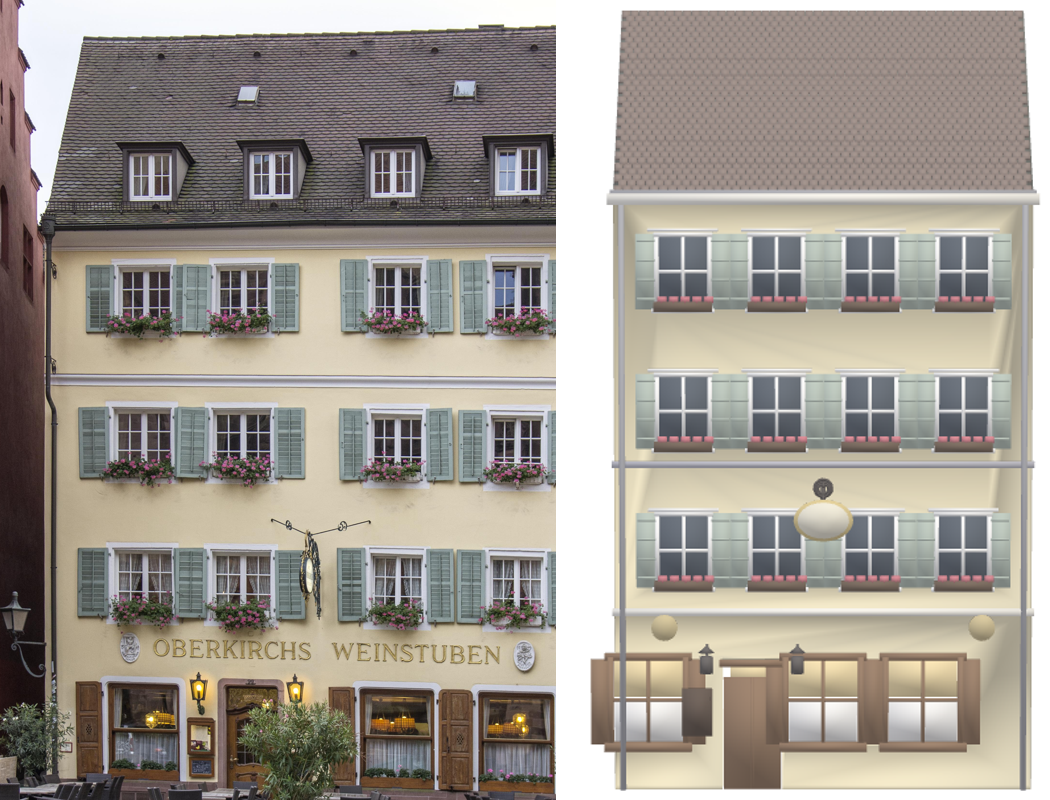
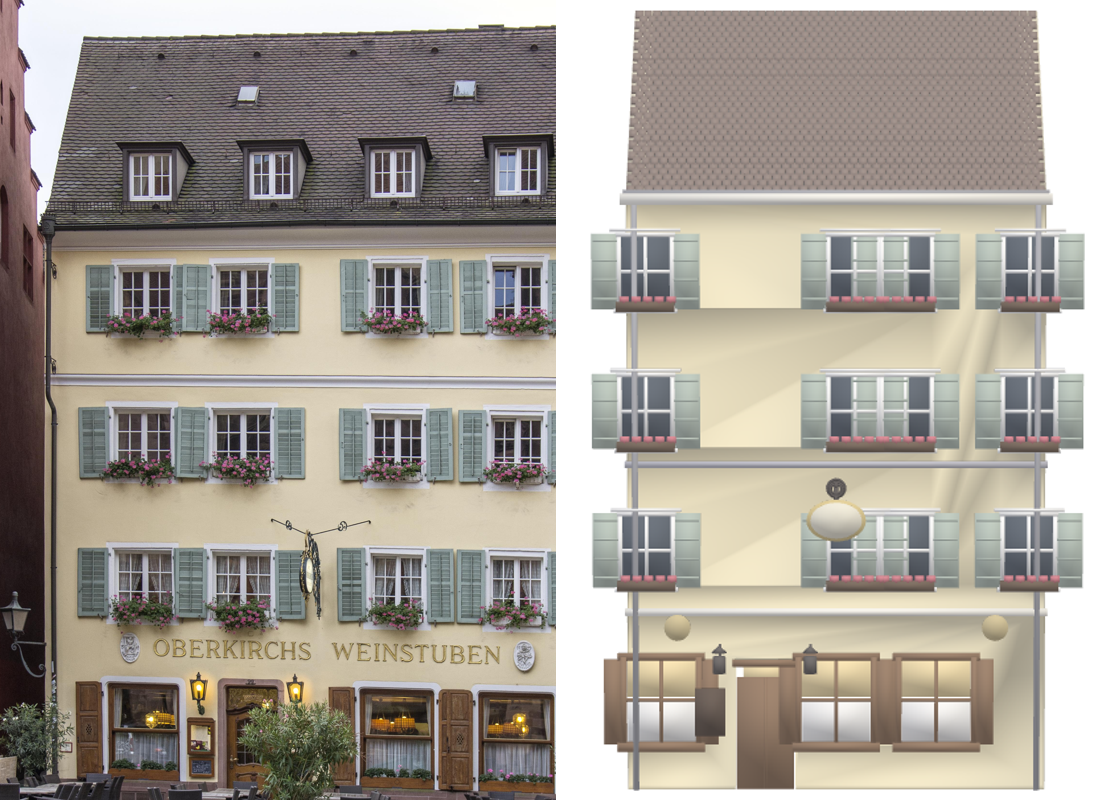
revert(oberkirch): zurueck auf c708815 (alter Stand, wie vom User gewuenscht)

diff --git a/tools/bauwerk_generator.py b/tools/bauwerk_generator.py
@@ -134,8 +134,6 @@ class Ctx:
             W, eg_top, axes = md["W_m"], md["eg_top_m"], md["axes_x_frac"]
             self.measured = md
             print(f"   [auto-gemessen aus Foto] W={W} m  EG-Oberkante={eg_top} m  Achsen={axes}")
-        if f.get("axes_x_frac"):            # Config-Achsen schlagen Messung (Mess-Achsen oft ungleich/falsch)
-            axes = f["axes_x_frac"]; print(f"   [Fenster-Achsen aus Config] {axes}")
         self.W = float(W); self.eg_top = float(eg_top)
         # --- DACH: First aus GEMESSENER Front-Dachhöhe (perspektiv-echt), Tiefe separat gekappt ---
         self.lod2_depth = float(m["lod2_depth"]); self.lod2_ridge = float(m["lod2_ridge"])
